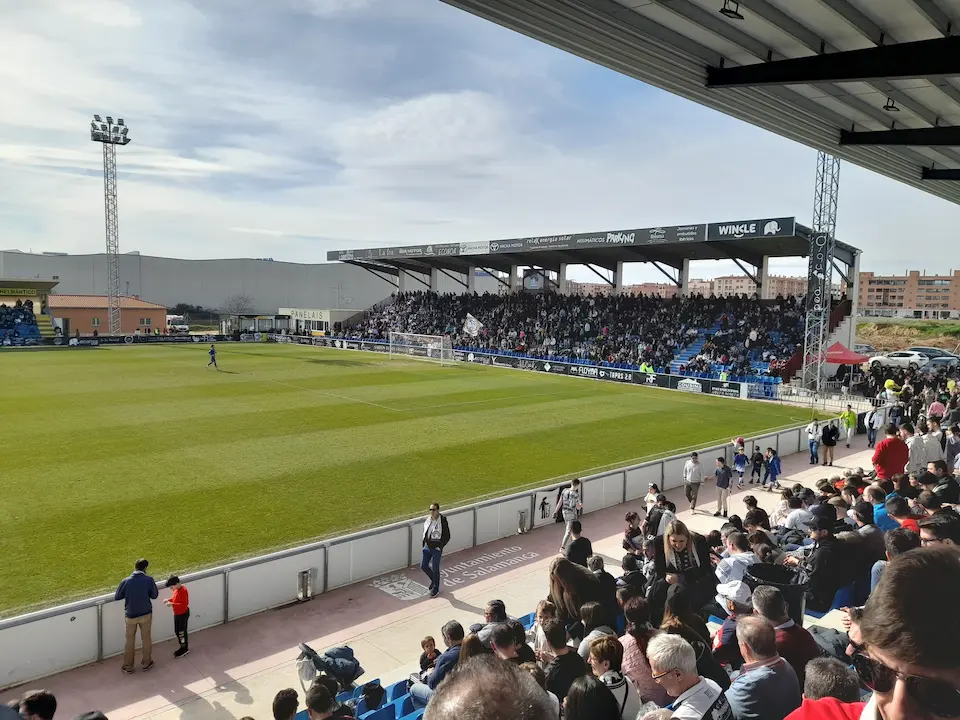
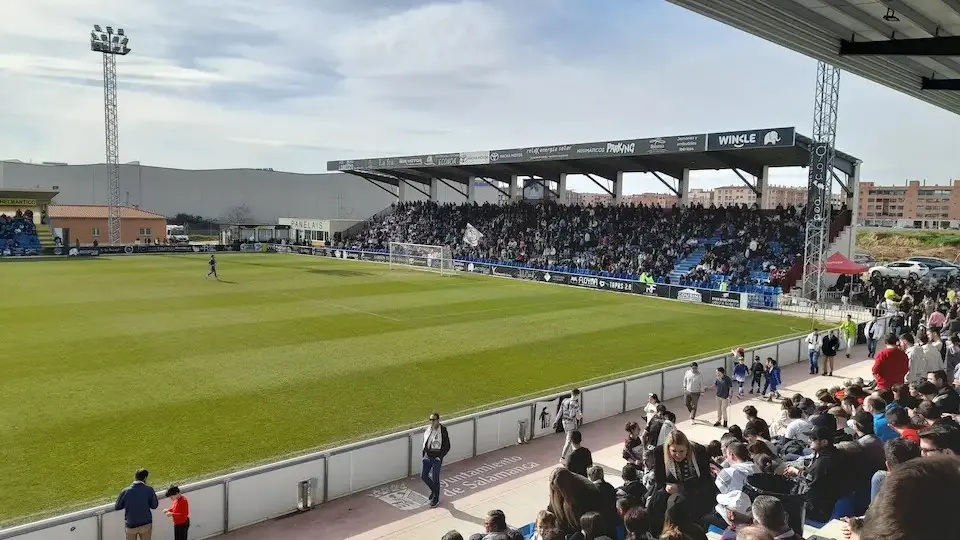
fixes

diff --git a/src/content/noticias/2024-04-22-vuelve-el-doctor-jekyll-y-mr-hide.md b/src/content/noticias/2024-04-22-vuelve-el-doctor-jekyll-y-mr-hide.md
@@ -1,9 +1,8 @@
 ---
 title: Vuelve el Doctor Jekyll y Mr Hide - La firma destacada
-description: Opinión y resumen del partido Real Union de Irún contra Unionistas
-  de Salamanca de la jornada 33 de la liga de Primera RFEF
+description: Opinión y resumen del partido Real Union de Irún contra Unionistas de Salamanca de la jornada 33 de la liga de Primera RFEF
 date: 2024-04-22T14:49:00.000Z
-imagen: /img/noticias/20240421_200418.jpg
+imagen: /img/noticias/stadium-gal.webp
 categorias:
   - La Firma Indebida
 tags:
@@ -20,19 +19,19 @@ autor: "Jaime García (Món) "
 ---
 Las caras del equipo estrechando las manos a la afición desplazada eran tristes y alargadas, también me pareció que asomaba un punto de fastidio y algo de estupefacción, y no era para menos. La salvedad era Teijeira que estaba encantado con la excursión saludando a la cuadrilla, familia y allegados.
 
-El míster aplaudió y permaneció en la distancia. ¿Casualidad? 
+El míster aplaudió y permaneció en la distancia. ¿Casualidad?
 
-Se pinchó el globo de la ilusión generada tras la exhibición en casa ante el filial del FC Barcelona. El Stadium Gal, sin menospreciar al Real Unión y sus exigencias clasificatorias, parecía un escenario bonito y propicio para rascar algo positivo que sirviera para que el objetivo de la Copa se acercara o no se alejara más. (Arenteiro recibía a la Deportiva. Acabó 1 - 1) 
+Se pinchó el globo de la ilusión generada tras la exhibición en casa ante el filial del FC Barcelona. El Stadium Gal, sin menospreciar al Real Unión y sus exigencias clasificatorias, parecía un escenario bonito y propicio para rascar algo positivo que sirviera para que el objetivo de la Copa se acercara o no se alejara más. (Arenteiro recibía a la Deportiva. Acabó 1 - 1)
 
-Salió Unionistas repitiendo 11 y mandón pero el espejismo duró 6 minutos. El Real Unión se asentó con una línea de 5 atrás en defensa y mucha movilidad arriba en zona de 3 cuartos. Tur no era el del otro día y Adri Gómez estaba hiperactivo y muy exigido. Unionistas lo intentaba con balones largos y alguna filtrada a banda que tampoco funcionó. Fue pasando la primera parte con un Real Unión que iba al suelo en cada contacto, con la colaboración del casero criterio arbitral que desesperaba a los animosos desplazados. 
+Salió Unionistas repitiendo 11 y mandón pero el espejismo duró 6 minutos. El Real Unión se asentó con una línea de 5 atrás en defensa y mucha movilidad arriba en zona de 3 cuartos. Tur no era el del otro día y Adri Gómez estaba hiperactivo y muy exigido. Unionistas lo intentaba con balones largos y alguna filtrada a banda que tampoco funcionó. Fue pasando la primera parte con un Real Unión que iba al suelo en cada contacto, con la colaboración del casero criterio arbitral que desesperaba a los animosos desplazados.
 
-Sólo un tiro de frontal que dio en la espalda de Adri y se fue cerca del palo, y un pillo y bien ejecutado golpe desde medio campo de Iván Pérez (obligó a Iván Martínez a estirarse) amenazaron con romper las gafas del marcador. 
+Sólo un tiro de frontal que dio en la espalda de Adri y se fue cerca del palo, y un pillo y bien ejecutado golpe desde medio campo de Iván Pérez (obligó a Iván Martínez a estirarse) amenazaron con romper las gafas del marcador.
 
 Comenzó la segunda parte con la salida de Villar por Adri Gómez, tenía tarjeta y renqueante tras un golpe, y pareció al equipo charro adquiría fortaleza en esa franja del campo.
 
 Pareció. Cuando todo apuntaba que Unionistas comenzaba a funcionar llegaba el gol del Real Unión. Otra incorporación del los laterales, que le hicieron mucho bien al equipo irundarra, acababa con un centro buenísimo para el cabezazo a bocajarro de Escobar. Posición ligeramente adelantada, fuera de juego de Var, pero es que se coló entre centrales con sorprendente facilidad. Introdujo Dani Ponz a Nespral y Rastrojo por un desdibujado Tur y Álvaro Gómez. Más hipotético desborde en bandas y mejor pase y piernas frescas para el ingeniero asturiano.
 
-Unionistas merodeó área y tuvo ocasiones. Pero se topó con Irazusta que solventó con brillantez un tiro desde pico de área de Planas buscando la base del palo, un tiro de Villar desde la frontal, un cabezazo de Erik y sobre todo, una disparo a bocajarro tras una ruleta de Slavy dentro del área. 
+Unionistas merodeó área y tuvo ocasiones. Pero se topó con Irazusta que solventó con brillantez un tiro desde pico de área de Planas buscando la base del palo, un tiro de Villar desde la frontal, un cabezazo de Erik y sobre todo, una disparo a bocajarro tras una ruleta de Slavy dentro del área.
 
 Pero lo que llegó fue el segundo gol del Real Unión.  Otra vez muy fácil. Tras una pérdida en medio campo entre Villar y Nespral, contra de libro. Por el carril central. Defensa en salida y a contrapié. Paradón de Iván en el uno contra uno pero remacha Solis en el rebote llegando desde atrás. Parecía que el partido de cerraba. Los recogepelotas de fueron a la grada y el conjunto fronterizo jugaba con el tiempo. Más madera. Etxaniz por un peleón y trabajador Losada.
 

diff --git a/src/content/noticias/2024-04-22-la-opinion-indebida-del-real-union-unionistas.md b/src/content/noticias/2024-04-22-la-opinion-indebida-del-real-union-unionistas.md
@@ -3,7 +3,7 @@ title: La opinión indebida del Real Unión - Unionistas
 description: Nuestra opinión del encuentro disputado entre el Real Unión Club de
   Irún y Unionistas de Salamanca. Primera Federación, grupo 1, jornada 33.
 date: 2024-04-22T20:00:00.000Z
-imagen: /img/noticias/glyqthtxcaa8qwb.jpeg
+imagen: /img/noticias/aficion-irun.webp
 categorias:
   - La Opinión Indebida
 tags:
